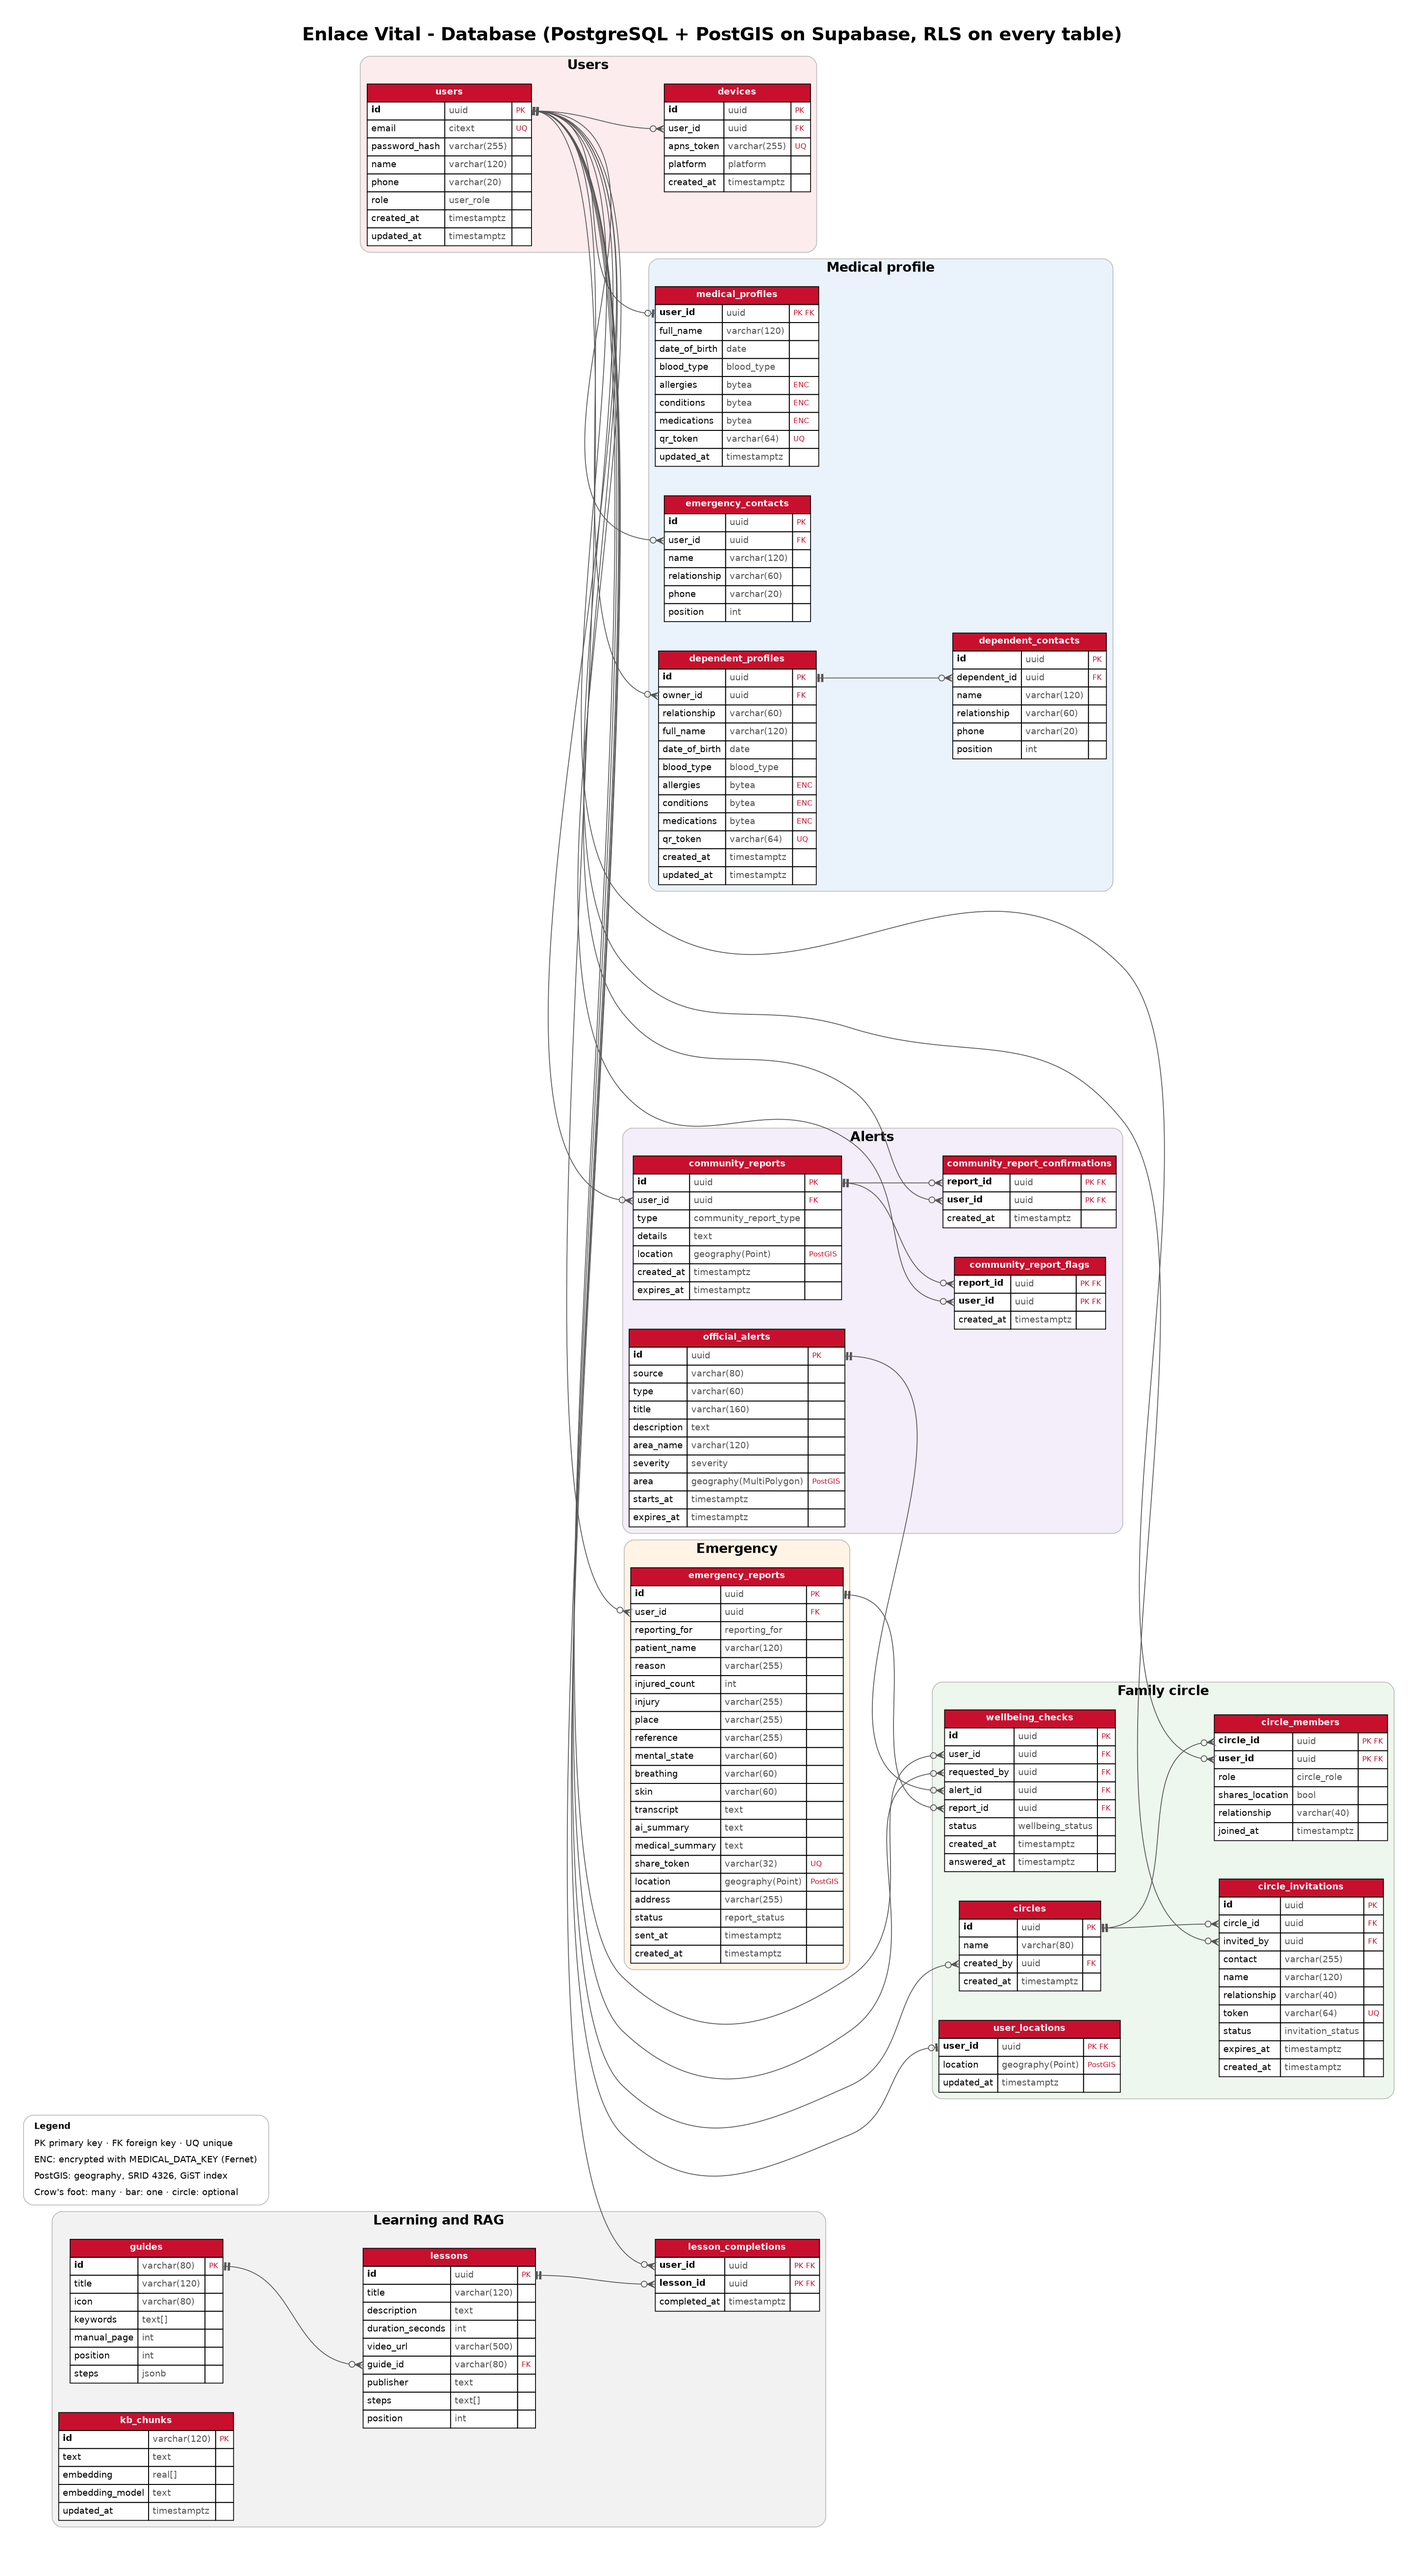
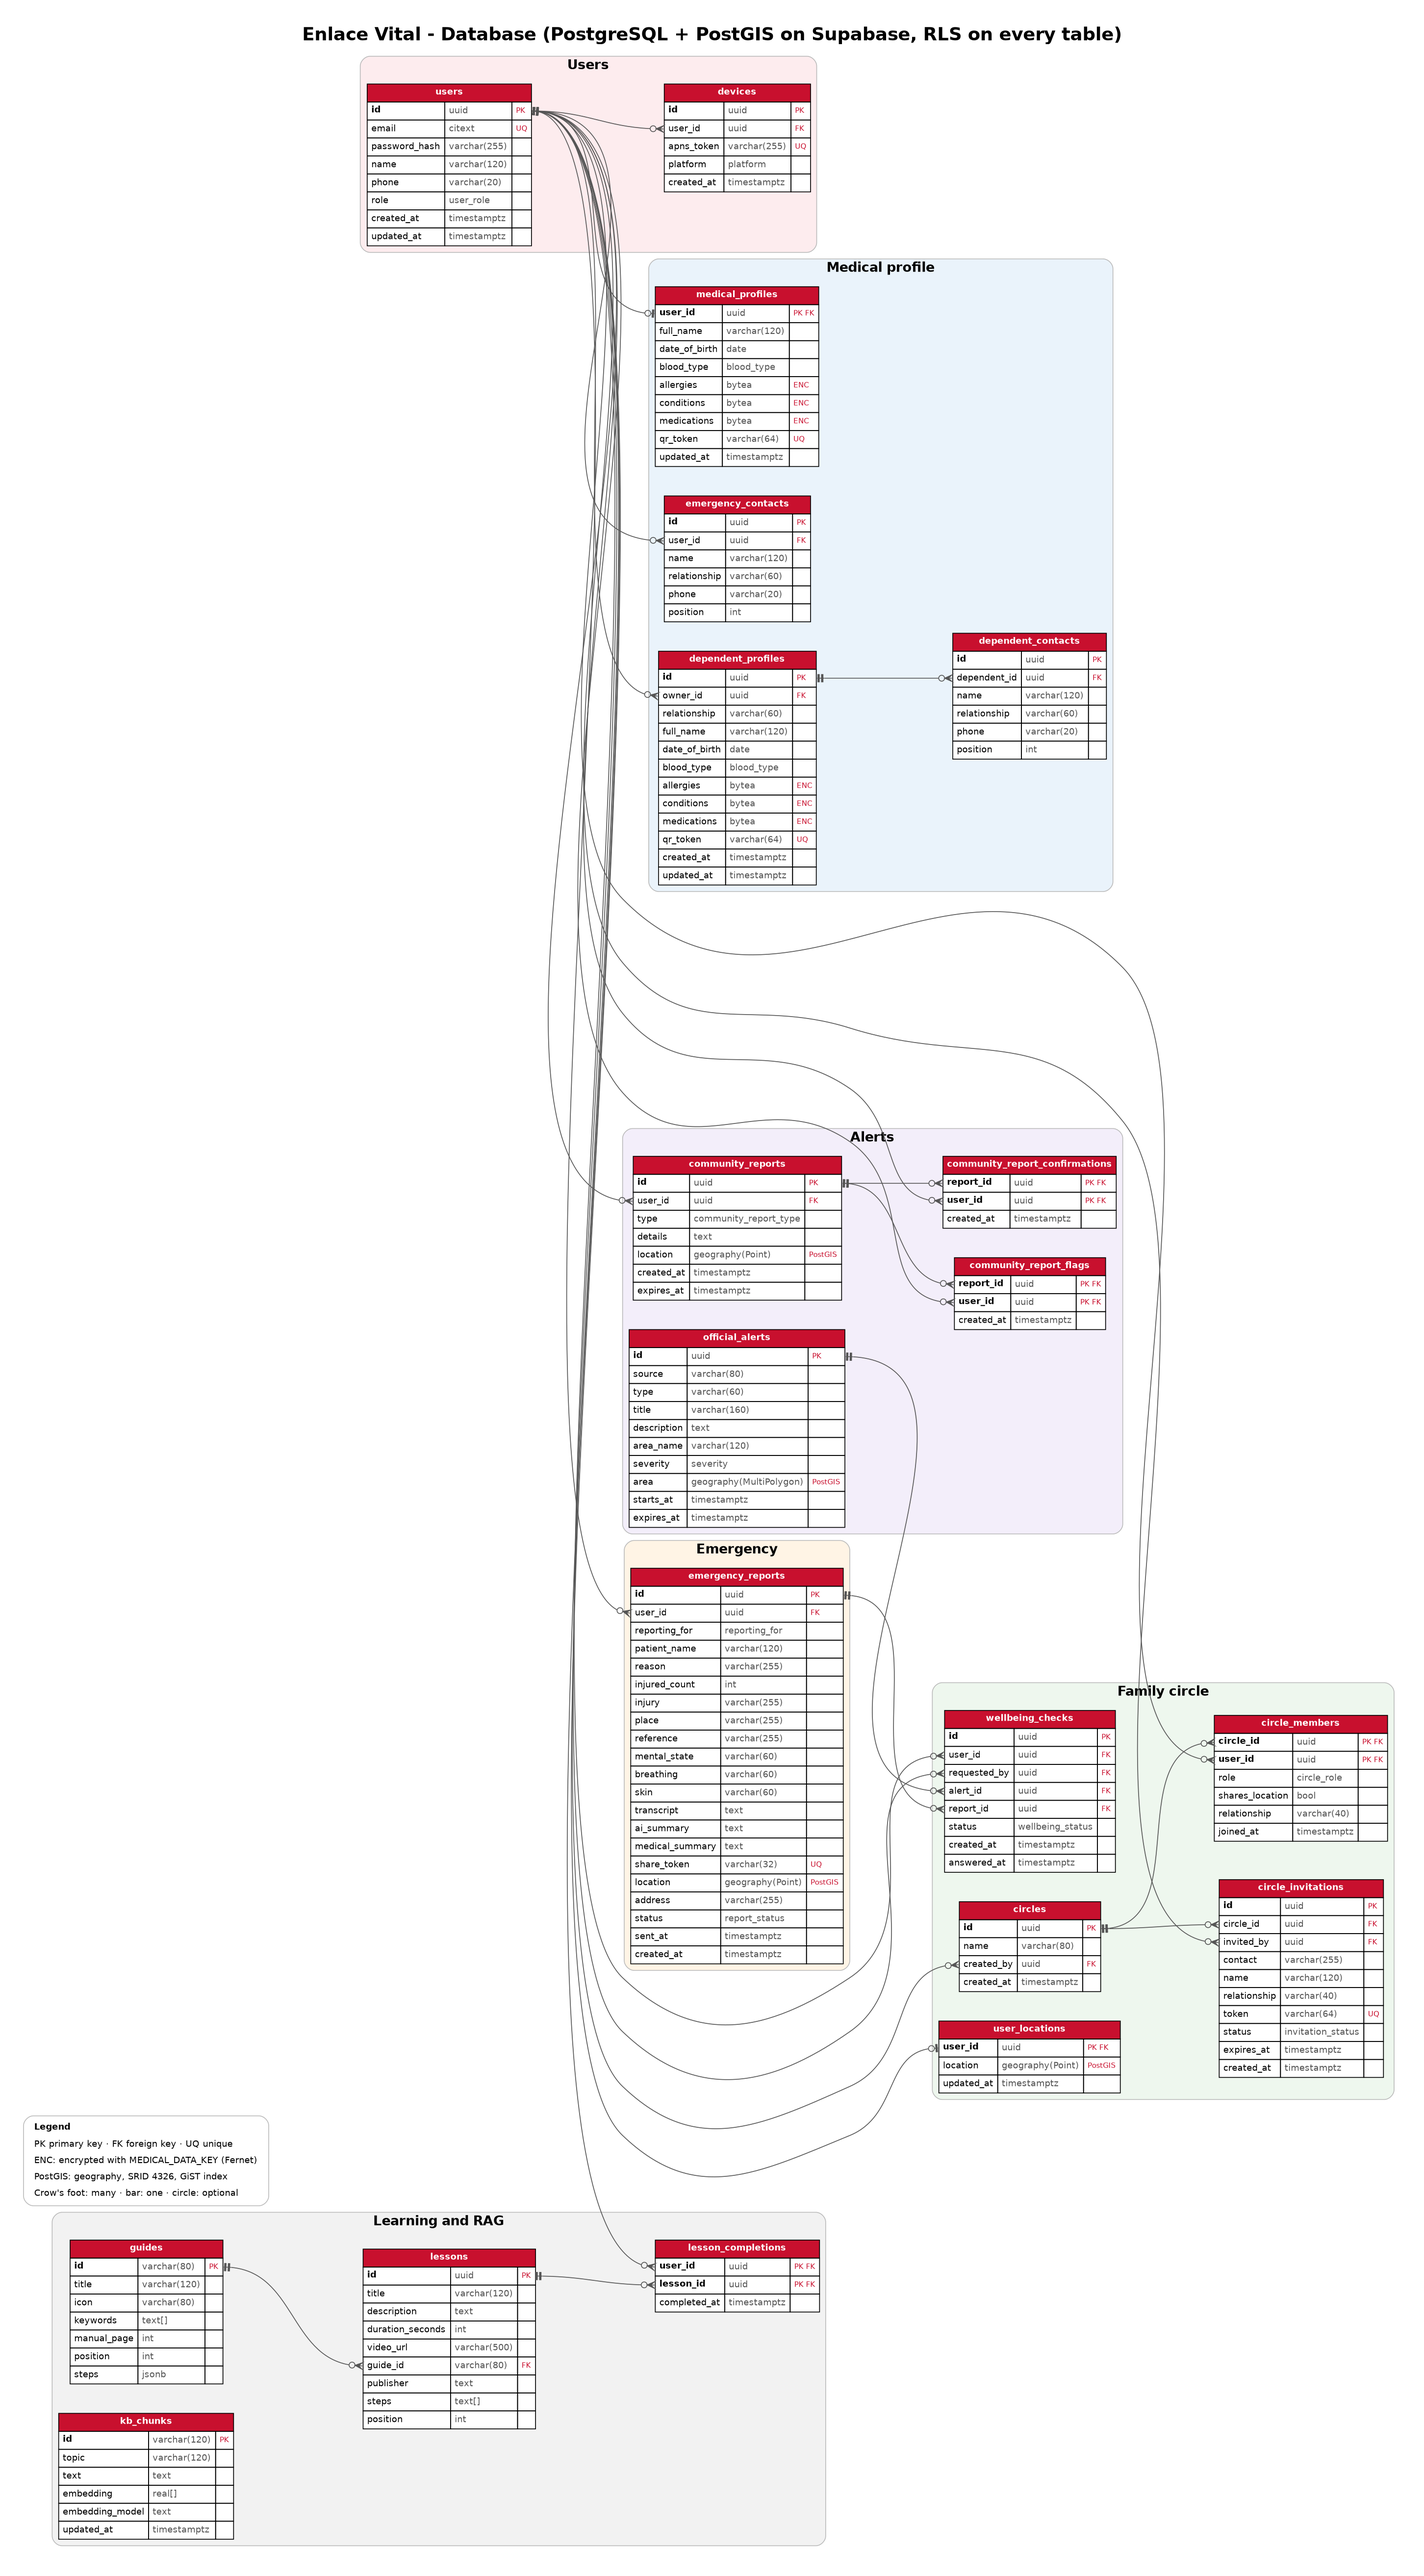
Add kb_chunks topic column to architecture docs (#103)

diff --git a/docs/architecture/src/gen_database.py b/docs/architecture/src/gen_database.py
@@ -33,7 +33,7 @@ M = {
   ("guides", [("id","varchar(80)","PK"),("title","varchar(120)",""),("icon","varchar(80)",""),("keywords","text[]",""),("manual_page","int",""),("position","int",""),("steps","jsonb","")]),
   ("lessons", [("id","uuid","PK"),("title","varchar(120)",""),("description","text",""),("duration_seconds","int",""),("video_url","varchar(500)",""),("guide_id","varchar(80)","FK"),("publisher","text",""),("steps","text[]",""),("position","int","")]),
   ("lesson_completions", [("user_id","uuid","PK FK"),("lesson_id","uuid","PK FK"),("completed_at","timestamptz","")]),
-  ("kb_chunks", [("id","varchar(120)","PK"),("text","text",""),("embedding","real[]",""),("embedding_model","text",""),("updated_at","timestamptz","")]),
+  ("kb_chunks", [("id","varchar(120)","PK"),("topic","varchar(120)",""),("text","text",""),("embedding","real[]",""),("embedding_model","text",""),("updated_at","timestamptz","")]),
  ]),
 }
 

diff --git a/docs/architecture/src/gen_folders.py b/docs/architecture/src/gen_folders.py
@@ -42,7 +42,7 @@ BACKEND = ("backend/", "Python package enlace-vital-backend", [
         ("crypto.py", "Fernet encryption of medical data", []),
         ("db.py / deps.py", "engine, session per request", []),
     ]),
-    ("alembic/versions/", "schema migrations 0001-0011", []),
+    ("alembic/versions/", "schema migrations 0001-0012", []),
     ("scripts/", "seed.py, sync_official_alerts.py, load_knowledge.py", []),
     ("tests/", "pytest against a throwaway Postgres DB", []),
     ("pyproject.toml", "dependencies and tooling", []),

diff --git a/docs/architecture/ARCHITECTURE.md b/docs/architecture/ARCHITECTURE.md
@@ -15,13 +15,13 @@ Architecture deliverable for Enlace Vital, the Cruz Roja Mexicana emergency app.
 
 ![Database](png/01-database.png)
 
-The database runs PostgreSQL with PostGIS on Supabase. It has 19 tables grouped into six modules: Users, Medical profile, Emergency, Family circle, Alerts and Learning. `users` is the central entity, and almost every other table references it.
+The database runs PostgreSQL with PostGIS on Supabase. It has 20 tables grouped into six modules: Users, Medical profile, Emergency, Family circle, Alerts, and Learning and RAG. `kb_chunks` holds the first-aid texts for the assistant, each with its `topic` and embedding. `users` is the central entity, and almost every other table references it.
 
 - **Keys.** Primary keys are UUIDs generated by the database with `gen_random_uuid()`. Join tables use composite keys: `circle_members`, `community_report_confirmations`, `community_report_flags` and `lesson_completions`.
 - **Medical data.** Allergies, conditions and medications are stored as `bytea` and encrypted with Fernet (`MEDICAL_DATA_KEY`). The QR code holds only a random, revocable `qr_token`, never the data itself.
 - **Locations.** Locations are PostGIS `geography` columns (SRID 4326) with GiST indexes. They are used to find official alerts and community reports near the user.
 - **Access.** Row Level Security is enabled on every table (migration 0003), so the public Supabase Data API returns nothing. Only the backend reaches the data.
-- **Migrations.** Alembic manages the schema, from migration 0001 to 0010.
+- **Migrations.** Alembic manages the schema, from migration 0001 to 0012.
 
 ## 2. System architecture
 
@@ -125,11 +125,11 @@ backend/
 │   ├── main.py          # FastAPI app, registers routers
 │   ├── routers/         # Controllers (auth, medical_profiles, dependents, emergency_reports, family, alerts, lessons, guides)
 │   ├── schemas/         # Views: Pydantic DTOs
-│   ├── models/          # Models: SQLAlchemy ORM (users, medical, reports, circles, alerts, learning)
+│   ├── models/          # Models: SQLAlchemy ORM (users, medical, reports, circles, alerts, learning, knowledge)
 │   ├── auth.py          # JWT + argon2
 │   ├── crypto.py        # Fernet encryption
 │   ├── db.py, deps.py   # engine and session per request
-├── alembic/versions/    # migrations 0001-0010
+├── alembic/versions/    # migrations 0001-0012
 ├── scripts/             # seed and demo data
 ├── tests/               # pytest
 └── pyproject.toml
